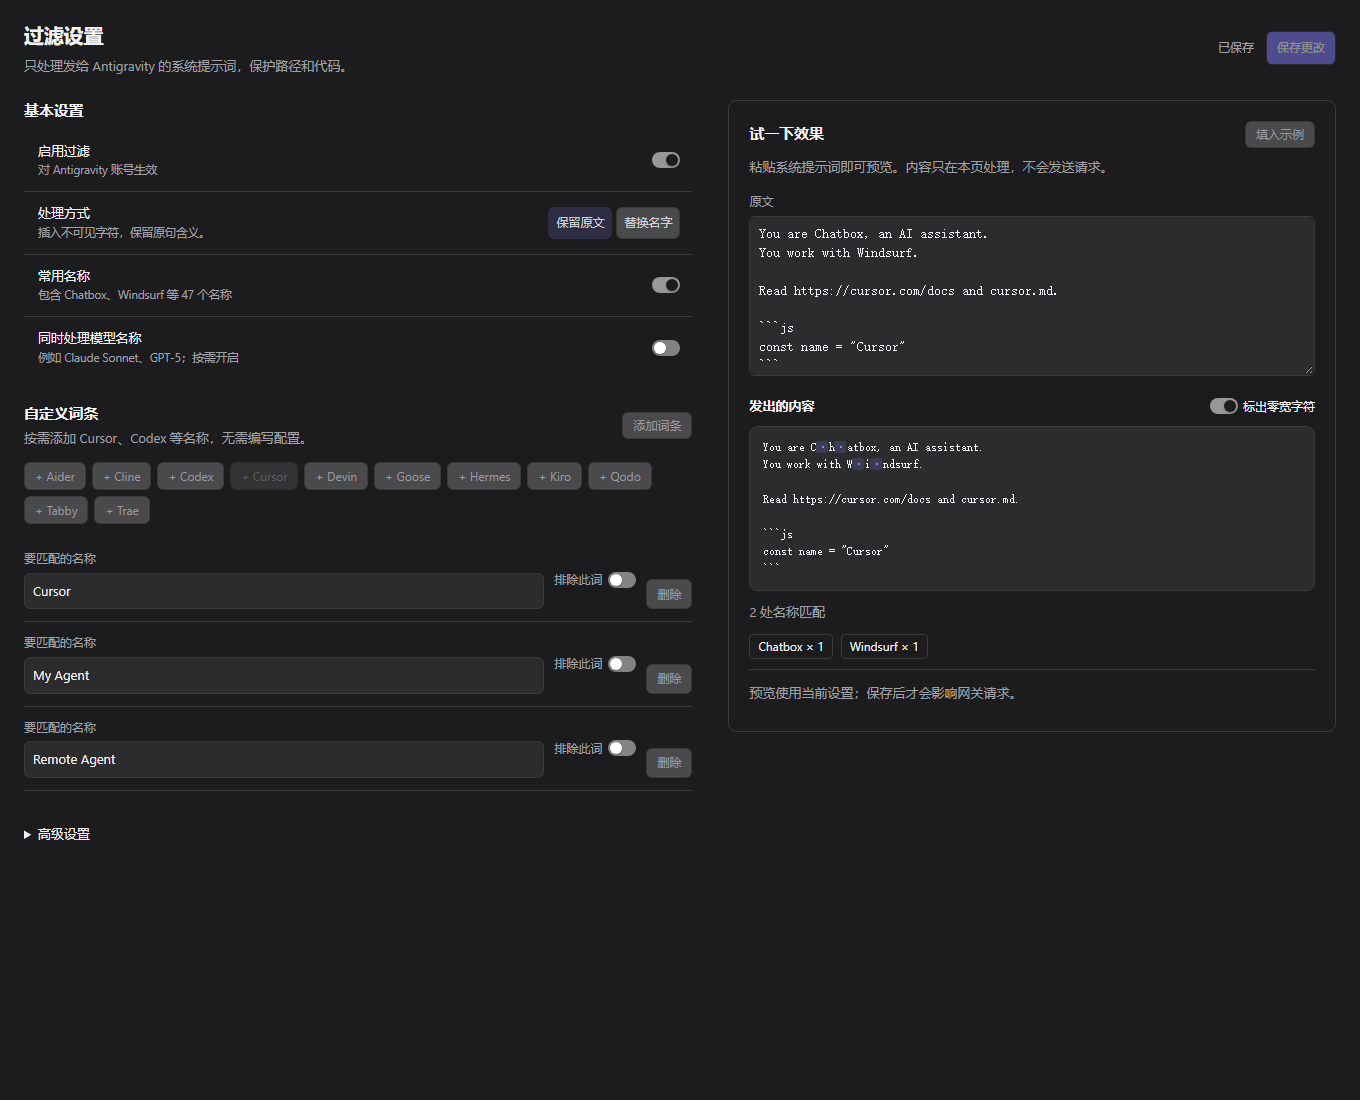
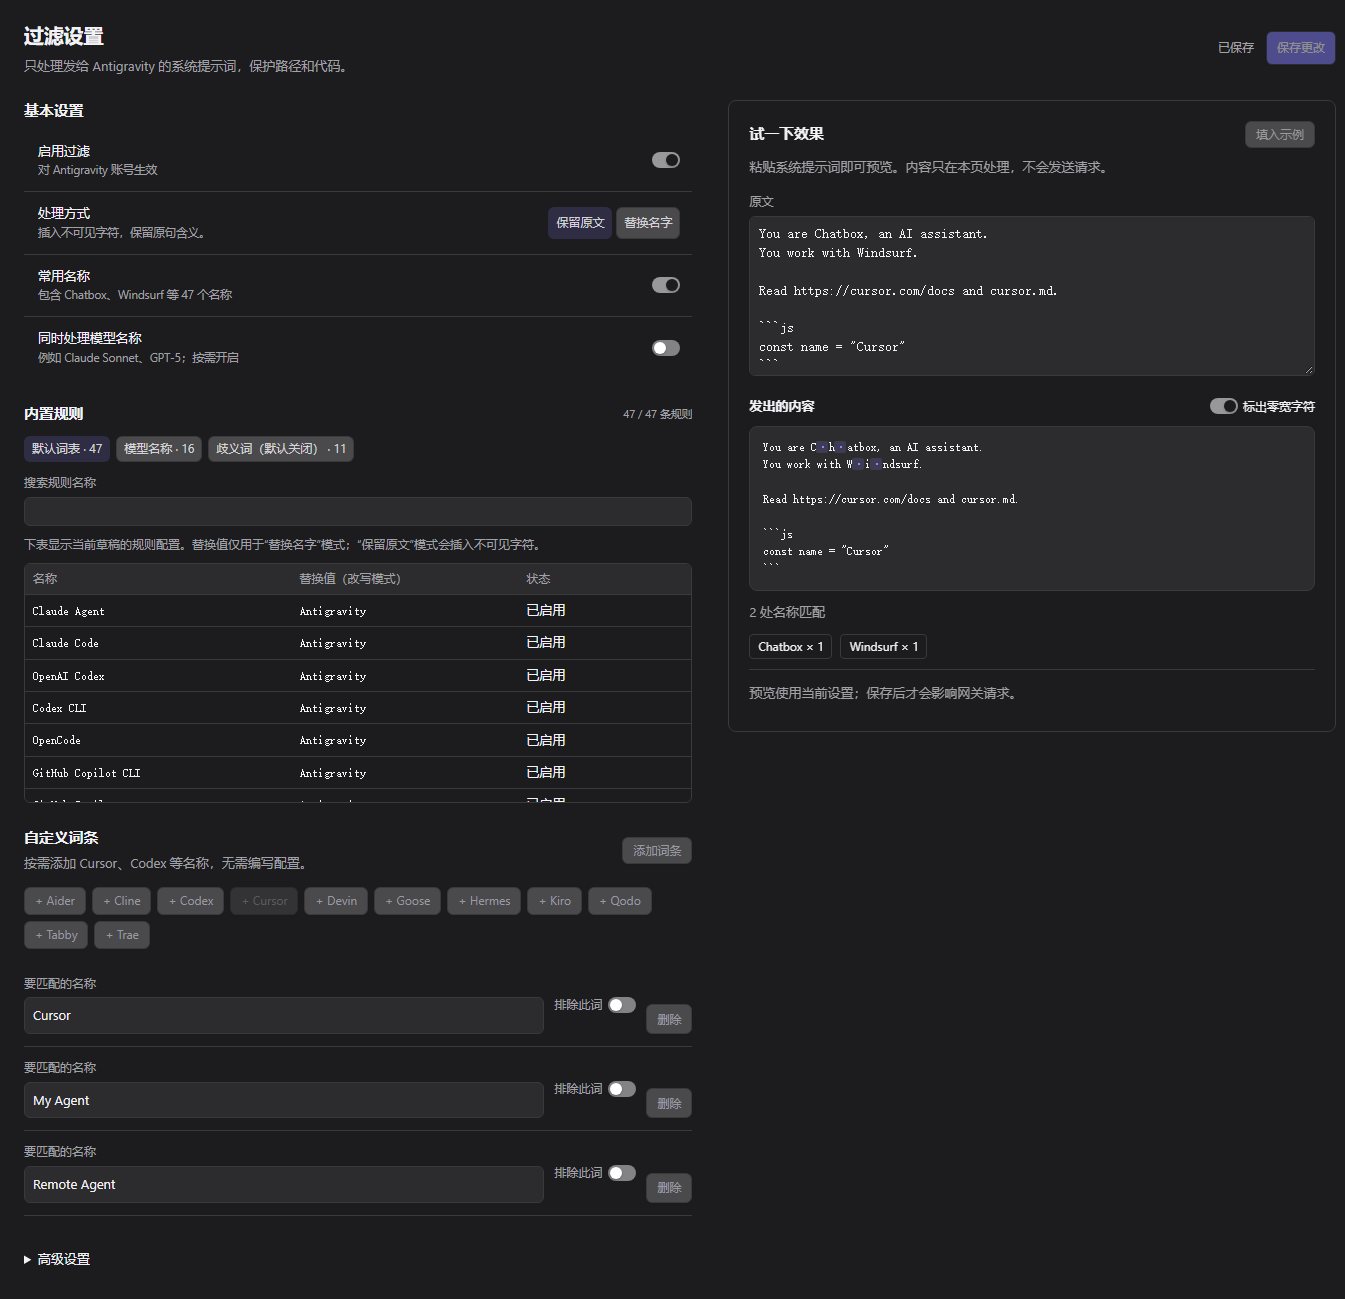
Show searchable built-in rule lists and effective mapping states
Display default, model and ambiguous presets with counts, replacements, enablement, custom overrides and exclusions. Keep browsing separate from saved configuration and verify searching and live status changes in Chrome.

diff --git a/page/app.js b/page/app.js
@@ -78,6 +78,24 @@
       saveFailed: "保存失败：",
       reload: "重新加载",
       excluded: "将保留此名称，不参与处理",
+      catalogTitle: "内置规则",
+      catalogSearch: "搜索规则名称",
+      catalogName: "名称",
+      catalogReplacement: "替换值（改写模式）",
+      catalogStatus: "状态",
+      catalogEmpty: "没有匹配的规则。",
+      catalogCommon: "默认词表",
+      catalogModels: "模型名称",
+      catalogAmbiguous: "歧义词（默认关闭）",
+      catalogEnabled: "已启用",
+      catalogDisabled: "未启用",
+      catalogOverridden: "自定义覆盖",
+      catalogExcluded: "已排除",
+      catalogHint:
+        "下表显示当前草稿的规则配置。替换值仅用于“替换名字”模式；“保留原文”模式会插入不可见字符。",
+      catalogOff: "过滤已关闭，以下规则暂不执行。",
+      catalogDry: "当前仅检查，以下规则不会改动请求。",
+      catalogCount: "条规则",
       pending: "设置尚未读取完成。",
       standalone: "预览模式；更改可保存到本浏览器",
       selectCopy: "已选中 JSON，请按 Ctrl/Cmd+C 复制。",
@@ -151,6 +169,25 @@
       saveFailed: "Could not save: ",
       reload: "Reload",
       excluded: "This name will be preserved",
+      catalogTitle: "Built-in rules",
+      catalogSearch: "Search rule names",
+      catalogName: "Name",
+      catalogReplacement: "Replacement (rewrite mode)",
+      catalogStatus: "Status",
+      catalogEmpty: "No matching rules.",
+      catalogCommon: "Default names",
+      catalogModels: "Model names",
+      catalogAmbiguous: "Ambiguous names (off by default)",
+      catalogEnabled: "Enabled",
+      catalogDisabled: "Not enabled",
+      catalogOverridden: "Custom override",
+      catalogExcluded: "Excluded",
+      catalogHint:
+        "Rules reflect the current draft. Replacement values apply in rewrite mode; keep wording inserts invisible characters.",
+      catalogOff: "Filtering is off; these rules will not run.",
+      catalogDry:
+        "Check-only mode is on; these rules will not modify requests.",
+      catalogCount: "rules",
       pending: "Settings are still loading.",
       standalone: "Preview mode; changes can be saved in this browser",
       selectCopy: "JSON selected. Press Ctrl/Cmd+C to copy.",
@@ -166,7 +203,8 @@
     ready = false,
     busy = false,
     lastWrite = 0,
-    loadedLocal = false;
+    loadedLocal = false,
+    catalogGroup = "common";
   const bridge = globalThis.magpie,
     t = (key) => words[lang][key] || key;
   const controls = globalThis.FilterControls,
@@ -291,6 +329,78 @@
     const fields = $("rules").querySelectorAll('input[data-field="name"]');
     fields[fields.length - 1]?.focus();
   }
+  function drawCatalog(options) {
+    const groups = $("catalog-groups");
+    const definitions = [
+      ["common", "catalogCommon"],
+      ["models", "catalogModels"],
+      ["ambiguous", "catalogAmbiguous"],
+    ];
+    if (!groups.children.length) {
+      for (const [group] of definitions) {
+        const button = controls.button(
+          "",
+          () => {
+            catalogGroup = group;
+            render();
+          },
+          "text",
+        );
+        button.dataset.group = group;
+        groups.append(button);
+      }
+    }
+    for (const [group, label] of definitions) {
+      const button = groups.querySelector('[data-group="' + group + '"]');
+      button.textContent =
+        t(label) + " · " + M.catalog(options || {}, group).length;
+      button.setAttribute("aria-pressed", String(catalogGroup === group));
+    }
+    if (!options) {
+      $("catalog-rows").replaceChildren();
+      $("catalog-count").textContent = "";
+      $("catalog-empty").hidden = true;
+      $("catalog-note").textContent = t("invalid");
+      return;
+    }
+    const list = M.catalog(options, catalogGroup);
+    const query = $("catalog-search").value.trim().toLowerCase();
+    const visible = list.filter((rule) =>
+      rule.name.toLowerCase().includes(query),
+    );
+    const status = {
+      enabled: "catalogEnabled",
+      disabled: "catalogDisabled",
+      overridden: "catalogOverridden",
+      excluded: "catalogExcluded",
+    };
+    $("catalog-rows").replaceChildren(
+      ...visible.map((rule) => {
+        const row = ui.el("tr");
+        row.dataset.name = rule.name;
+        row.dataset.state = rule.state;
+        const name = ui.el("td"),
+          value = ui.el("td"),
+          state = ui.el("td");
+        name.append(ui.el("code", "", rule.name));
+        value.append(
+          ui.el("code", "", rule.replacement === null ? "—" : rule.replacement),
+        );
+        state.textContent = t(status[rule.state]);
+        row.append(name, value, state);
+        return row;
+      }),
+    );
+    $("catalog-count").textContent =
+      visible.length + " / " + list.length + " " + t("catalogCount");
+    $("catalog-empty").hidden = visible.length > 0;
+    $("catalog-note").textContent =
+      (options.off
+        ? t("catalogOff") + " "
+        : options.dryRun
+          ? t("catalogDry") + " "
+          : "") + t("catalogHint");
+  }
   function render() {
     $("cloak").setAttribute("aria-pressed", String(mode === "cloak"));
     $("rewrite").setAttribute("aria-pressed", String(mode === "rewrite"));
@@ -314,6 +424,7 @@
     } catch (e) {
       error = e.message;
     }
+    drawCatalog(error ? null : options);
     if (error) {
       $("json").textContent = t(error);
       $("copy-json").disabled = true;

diff --git a/page/index.html b/page/index.html
@@ -79,6 +79,47 @@
             ><input id="useModelKeywords" type="checkbox" role="switch"
           /></label>
         </section>
+        <section aria-labelledby="catalog-title">
+          <div class="section-head">
+            <h2 id="catalog-title" data-t="catalogTitle">内置规则</h2>
+            <small id="catalog-count" class="muted" aria-live="polite"></small>
+          </div>
+          <div
+            id="catalog-groups"
+            class="catalog-groups"
+            role="group"
+            aria-labelledby="catalog-title"
+          ></div>
+          <label class="field catalog-search"
+            ><span data-t="catalogSearch">搜索规则名称</span
+            ><input
+              id="catalog-search"
+              type="search"
+              autocomplete="off"
+              spellcheck="false"
+          /></label>
+          <p id="catalog-note" class="muted"></p>
+          <div
+            class="catalog-table"
+            tabindex="0"
+            role="region"
+            aria-labelledby="catalog-title"
+          >
+            <table>
+              <thead>
+                <tr>
+                  <th data-t="catalogName">名称</th>
+                  <th data-t="catalogReplacement">替换值（改写模式）</th>
+                  <th data-t="catalogStatus">状态</th>
+                </tr>
+              </thead>
+              <tbody id="catalog-rows"></tbody>
+            </table>
+          </div>
+          <p id="catalog-empty" class="muted" data-t="catalogEmpty" hidden>
+            没有匹配的规则。
+          </p>
+        </section>
         <section aria-labelledby="rules-title">
           <div class="section-head">
             <div>

diff --git a/page/form.js b/page/form.js
@@ -154,5 +154,41 @@
     for (const alias of Object.keys(aliases)) delete result[alias];
     return result;
   }
-  globalThis.FilterForm = { defaults, normalize, build, preview, merge };
+  function catalog(value, group = "common") {
+    const { options, rows } = normalize(value);
+    const filter = globalThis.AntigravityFilter;
+    const groups = {
+      common: [filter.defaultMappings, options.useDefaultKeywords],
+      models: [filter.modelMappings, options.useModelKeywords],
+      ambiguous: [filter.ambiguousMappings, options.useAmbiguousKeywords],
+    };
+    const [list, enabled] = groups[group] || [[], false];
+    const overrides = new Map(rows.map((row) => [row.name.toLowerCase(), row]));
+    return list.map(([name, replacement]) => {
+      const custom = overrides.get(name.toLowerCase());
+      return {
+        name,
+        replacement: custom
+          ? custom.exclude
+            ? null
+            : custom.replacement
+          : replacement,
+        state: custom
+          ? custom.exclude
+            ? "excluded"
+            : "overridden"
+          : enabled
+            ? "enabled"
+            : "disabled",
+      };
+    });
+  }
+  globalThis.FilterForm = {
+    defaults,
+    normalize,
+    build,
+    preview,
+    merge,
+    catalog,
+  };
 })();

diff --git a/page/style.css b/page/style.css
@@ -228,6 +228,55 @@ summary {
 [hidden] {
   display: none !important;
 }
+.catalog-groups {
+  display: flex;
+  flex-wrap: wrap;
+  gap: 6px;
+  margin: 12px 0;
+}
+.catalog-search {
+  margin: 10px 0;
+}
+.catalog-search input {
+  width: 100%;
+}
+.catalog-table {
+  max-height: 240px;
+  overflow: auto;
+  overscroll-behavior: contain;
+  border: 1px solid var(--magpie-line, ButtonBorder);
+  border-radius: 6px;
+}
+.catalog-table table {
+  margin: 0;
+  table-layout: fixed;
+}
+.catalog-table th {
+  position: sticky;
+  top: 0;
+  background: var(--magpie-card, Canvas);
+  z-index: 1;
+}
+.catalog-table td,
+.catalog-table th {
+  overflow-wrap: anywhere;
+}
+.catalog-table th:first-child {
+  width: 40%;
+}
+.catalog-table th:last-child {
+  width: 26%;
+}
+.catalog-table tr[data-state="excluded"] td:last-child {
+  color: var(--magpie-red, CanvasText);
+}
+.catalog-table tr[data-state="disabled"] {
+  color: var(--magpie-muted, GrayText);
+}
+#catalog-note {
+  font-size: 12px;
+  margin-bottom: 10px;
+}
 @media (max-width: 900px) {
   main {
     grid-template-columns: 1fr;

diff --git a/README.md b/README.md
@@ -125,6 +125,7 @@ The page calls Magpie's official `ui.button`, `ui.toggle`, and `ui.row` componen
 Settings rows, all switches, and action buttons are constructed by these component factories. `page/style.css` retains page layout and token aliases. The bridge still supplies the page's base typography and theme. Browser tests assert that the final page contains official switch buttons and settings rows, with no remaining checkbox inputs; `test/magpie-ui.test.mjs` guards the pinned component methods and loading order.
 
 - **Common settings first.** Enable filtering, choose “Keep wording” or “Replace names”, and optionally include model names. Advanced matching switches, account types and JSON stay folded away.
+- **Built-in rules are visible.** Browse the 47 default names, 16 optional model names and 11 optional ambiguous names. Search by name and inspect each mapping's replacement and current status (enabled, not enabled, custom override or excluded). This reflects the current draft; browsing does not modify options. Global off/check-only states are shown above the list.
 - **Editable name rows.** Add the eleven ambiguous names individually with quick-add buttons, enter any other name, delete a row, or exclude a built-in name. No mapping syntax is needed. Replacement fields appear in rewrite mode.
 - **A truthful preview.** Paste a system prompt or load the Chatbox example. The outgoing text and match counts update immediately; off and check-only modes preserve the original text. The preview uses the current draft, while gateway requests use the saved settings.
 - **Explicit saves.** Save is enabled only after a valid change. The page reports failed reads and writes, preserves unrelated options, and converts legacy mapping formats into rows without dropping names. `Ctrl/Cmd+S` also saves and does nothing when unchanged. Saves merge independent edits from other windows; conflicting changes to the same setting or name keep the draft unsaved with an explanation.
